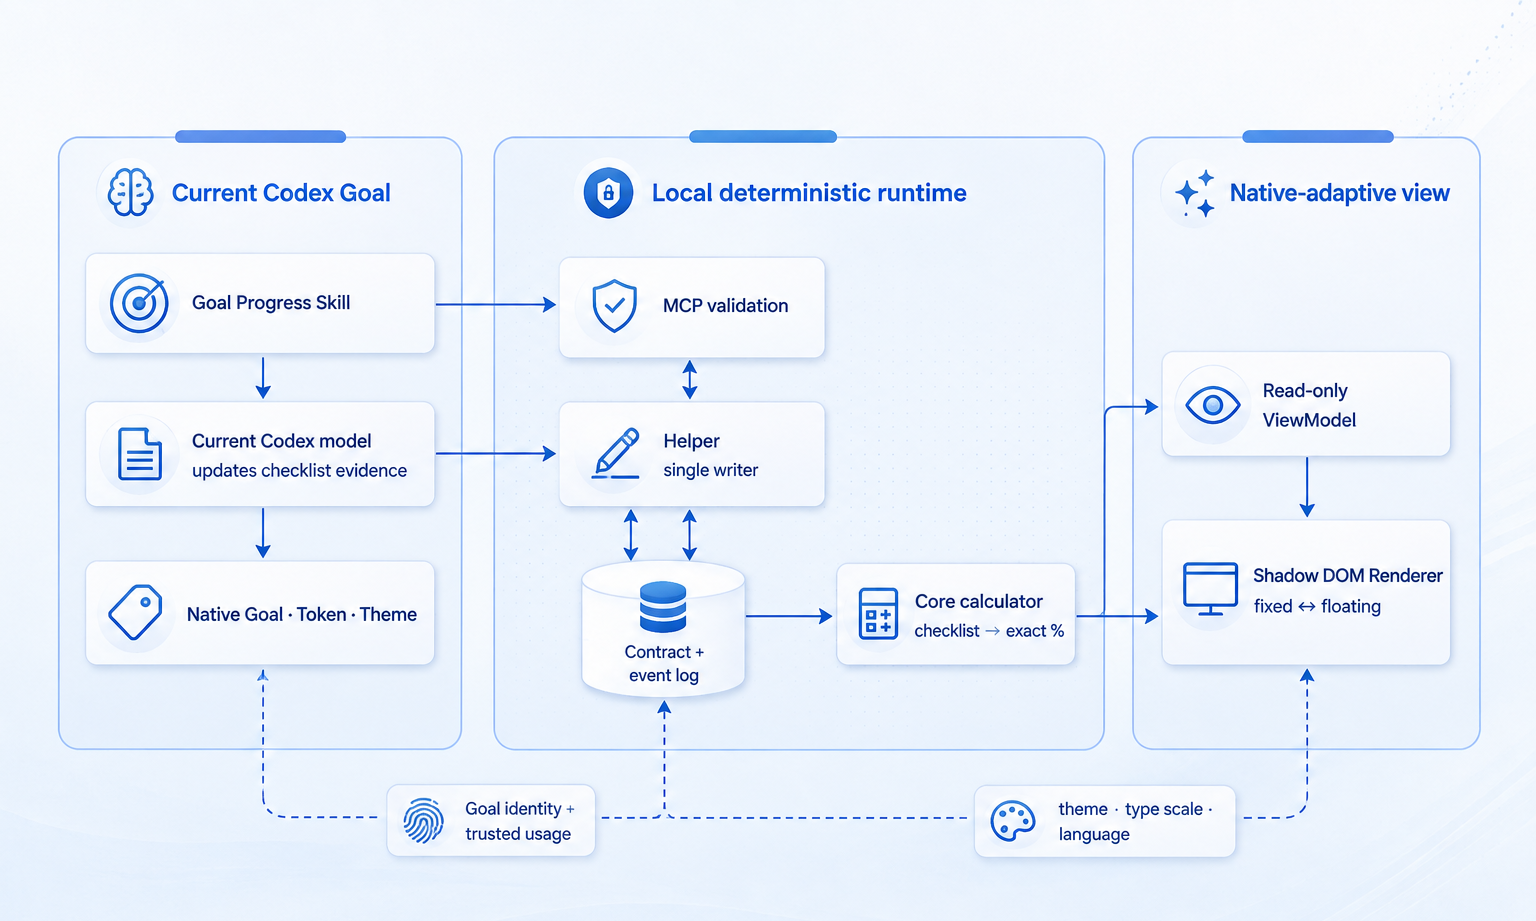
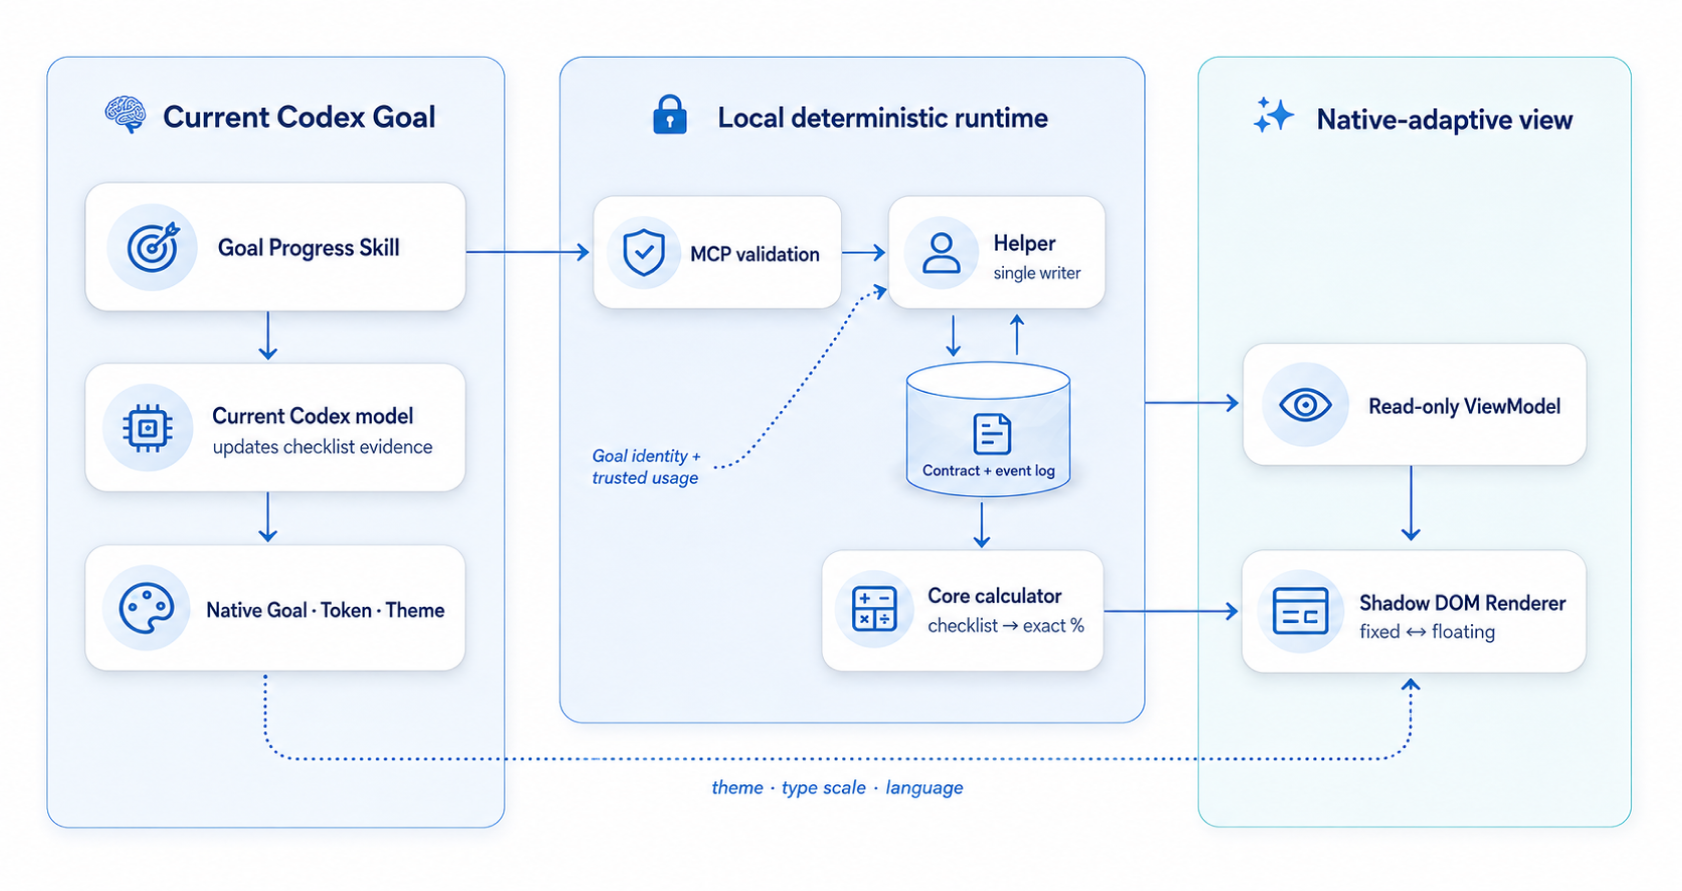
chore: refresh public source export

diff --git a/README.zh-CN.md b/README.zh-CN.md
@@ -44,7 +44,7 @@ cd codex-goal-progress
 pnpm install --frozen-lockfile
 pnpm build
 
-GOAL_PROGRESS_NODE_BINARY=/你的/node-v24.19.0-arm64路径 \
+GOAL_PROGRESS_NODE_BINARY="$PWD/.cache/node-v24.19.0/node-v24.19.0-darwin-arm64/bin/node" \
   pnpm build:release:macos
 
 ./dist/release/macos-arm64/bin/goal-progress install --json
@@ -60,6 +60,31 @@ GOAL_PROGRESS_NODE_BINARY=/你的/node-v24.19.0-arm64路径 \
 * Node.js 22.12 或更高版本
 * pnpm 11
 * 构建 macOS Release 时，需要 Node.js 24.19.0 arm64 二进制文件
+
+### 准备 Node 24.19.0 arm64
+
+从 Node.js 官方 Release 下载 macOS arm64 文件和 SHA-256 清单：
+
+```bash
+NODE_RELEASE_DIR="$PWD/.cache/node-v24.19.0"
+mkdir -p "$NODE_RELEASE_DIR"
+cd "$NODE_RELEASE_DIR"
+
+curl -fLO https://nodejs.org/download/release/v24.19.0/node-v24.19.0-darwin-arm64.tar.gz
+curl -fLO https://nodejs.org/download/release/v24.19.0/SHASUMS256.txt
+
+grep '  node-v24.19.0-darwin-arm64.tar.gz$' SHASUMS256.txt \
+  | shasum -a 256 -c -
+tar -xzf node-v24.19.0-darwin-arm64.tar.gz
+
+NODE_BINARY="$NODE_RELEASE_DIR/node-v24.19.0-darwin-arm64/bin/node"
+"$NODE_BINARY" -p 'process.version + " " + process.arch'
+file "$NODE_BINARY"
+
+cd ../..
+```
+
+版本检查应显示 `v24.19.0 arm64`，`file` 应显示 Mach-O arm64。
 
 构建完成的 Release 位于：
 

diff --git a/README.md b/README.md
@@ -45,7 +45,7 @@ cd codex-goal-progress
 pnpm install --frozen-lockfile
 pnpm build
 
-GOAL_PROGRESS_NODE_BINARY=/your/path/to/node-v24.19.0-arm64 \
+GOAL_PROGRESS_NODE_BINARY="$PWD/.cache/node-v24.19.0/node-v24.19.0-darwin-arm64/bin/node" \
   pnpm build:release:macos
 
 ./dist/release/macos-arm64/bin/goal-progress install --json
@@ -62,6 +62,32 @@ must reconnect or review a Hook.
 * Node.js 22.12 or newer
 * pnpm 11
 * A Node.js 24.19.0 arm64 binary when building the macOS Release
+
+### Prepare Node 24.19.0 arm64
+
+Download the official macOS arm64 archive and SHA-256 manifest:
+
+```bash
+NODE_RELEASE_DIR="$PWD/.cache/node-v24.19.0"
+mkdir -p "$NODE_RELEASE_DIR"
+cd "$NODE_RELEASE_DIR"
+
+curl -fLO https://nodejs.org/download/release/v24.19.0/node-v24.19.0-darwin-arm64.tar.gz
+curl -fLO https://nodejs.org/download/release/v24.19.0/SHASUMS256.txt
+
+grep '  node-v24.19.0-darwin-arm64.tar.gz$' SHASUMS256.txt \
+  | shasum -a 256 -c -
+tar -xzf node-v24.19.0-darwin-arm64.tar.gz
+
+NODE_BINARY="$NODE_RELEASE_DIR/node-v24.19.0-darwin-arm64/bin/node"
+"$NODE_BINARY" -p 'process.version + " " + process.arch'
+file "$NODE_BINARY"
+
+cd ../..
+```
+
+The version check must print `v24.19.0 arm64`. The `file` command must report a Mach-O arm64
+binary.
 
 The built Release is written to:
 

diff --git a/CONTRIBUTING.md b/CONTRIBUTING.md
@@ -4,8 +4,7 @@
 
 ```bash
 pnpm install --frozen-lockfile
-pnpm typecheck
-pnpm build
+pnpm verify
 ```
 
 ## Make a change
@@ -14,7 +13,7 @@ pnpm build
 2. Keep the change focused.
 3. Reproduce bugs before fixing them.
 4. Explain the expected behavior and verification method.
-5. Run `pnpm typecheck` and `pnpm build`.
+5. Run `pnpm verify`.
 
 Do not modify Codex application files, private stores, private JavaScript chunks, or code
 signatures. Keep Codex-specific DOM knowledge inside `packages/codex-adapter`.

diff --git a/AGENTS.md b/AGENTS.md
@@ -12,8 +12,7 @@ This file is for external coding agents working in the public repository.
 ## Commands
 
 - Use `pnpm`. Do not use npm, yarn, or Bun to change dependencies or the lockfile.
-- Type-check: `pnpm typecheck`
-- Build: `pnpm build`
+- Run all public validation gates: `pnpm verify`
 
 ## Architecture boundaries
 
